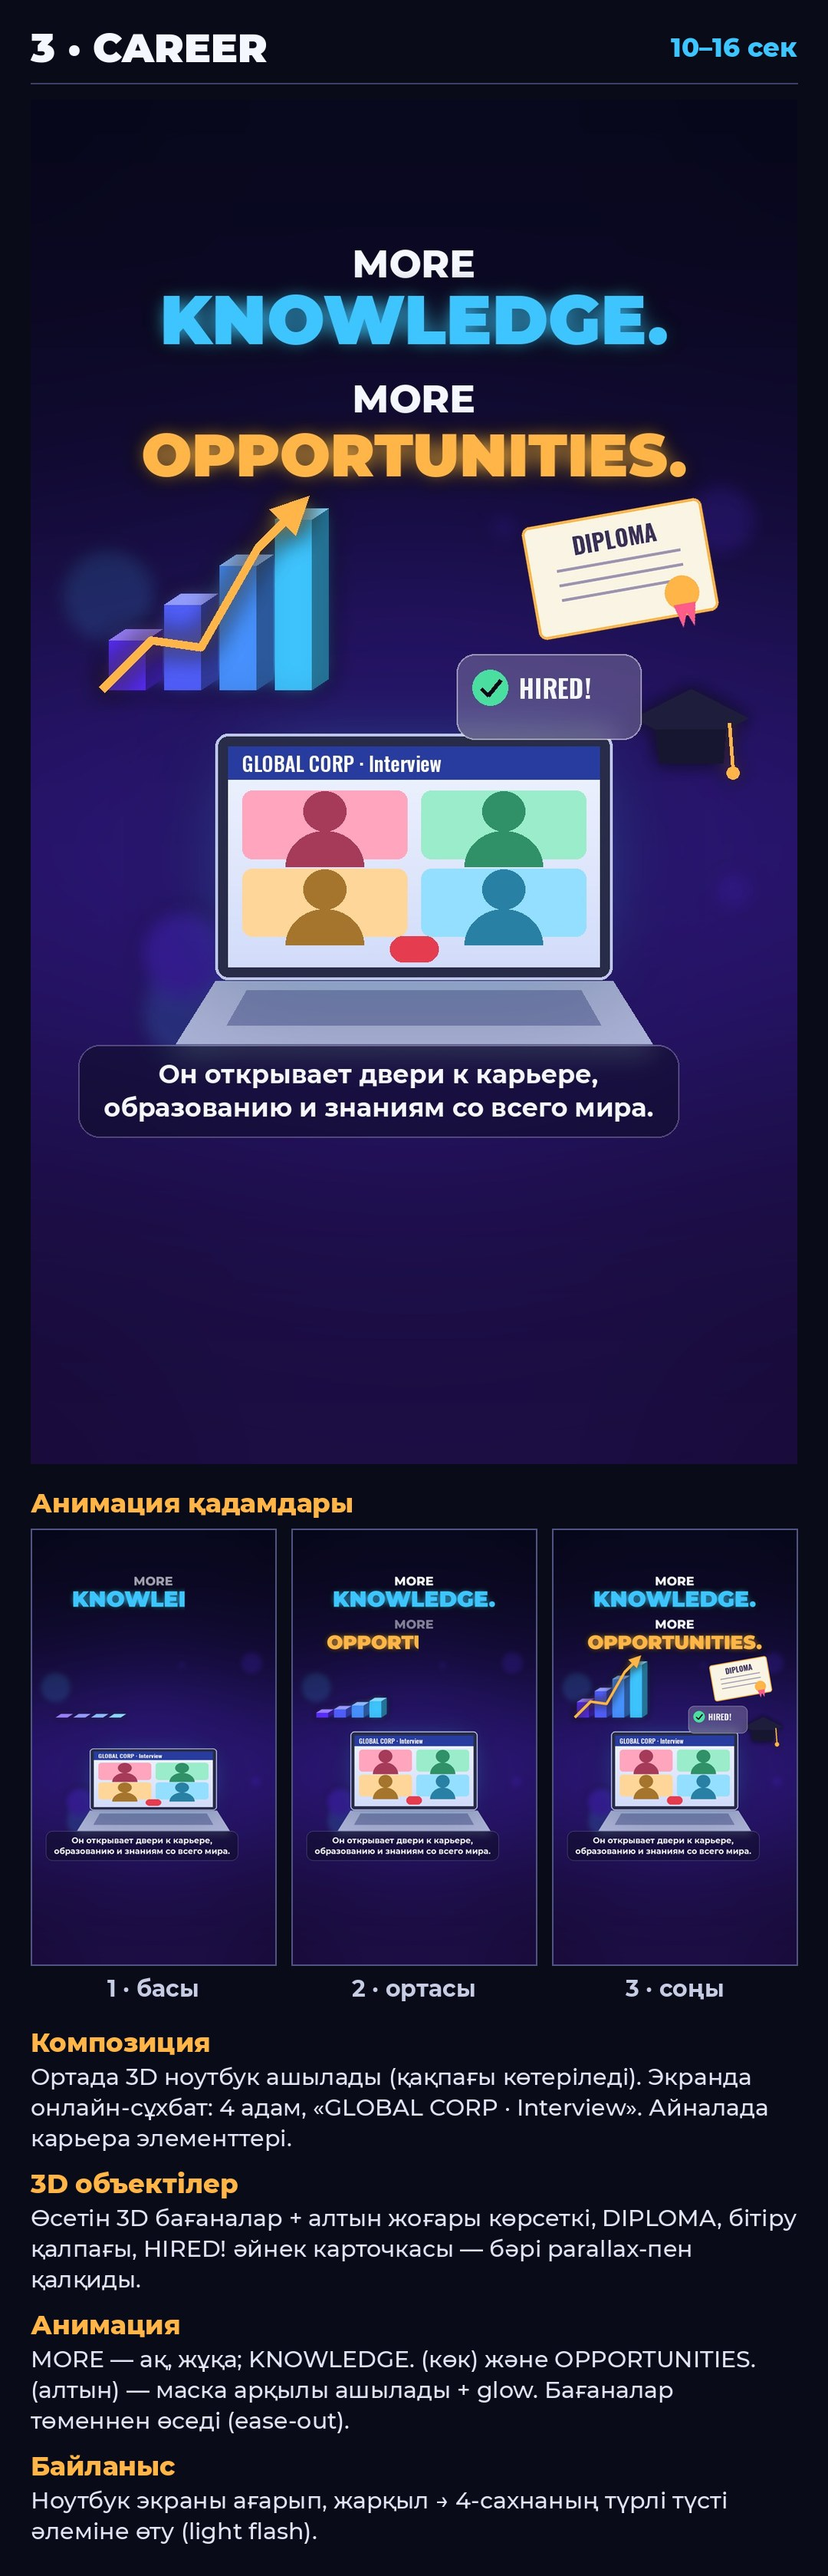
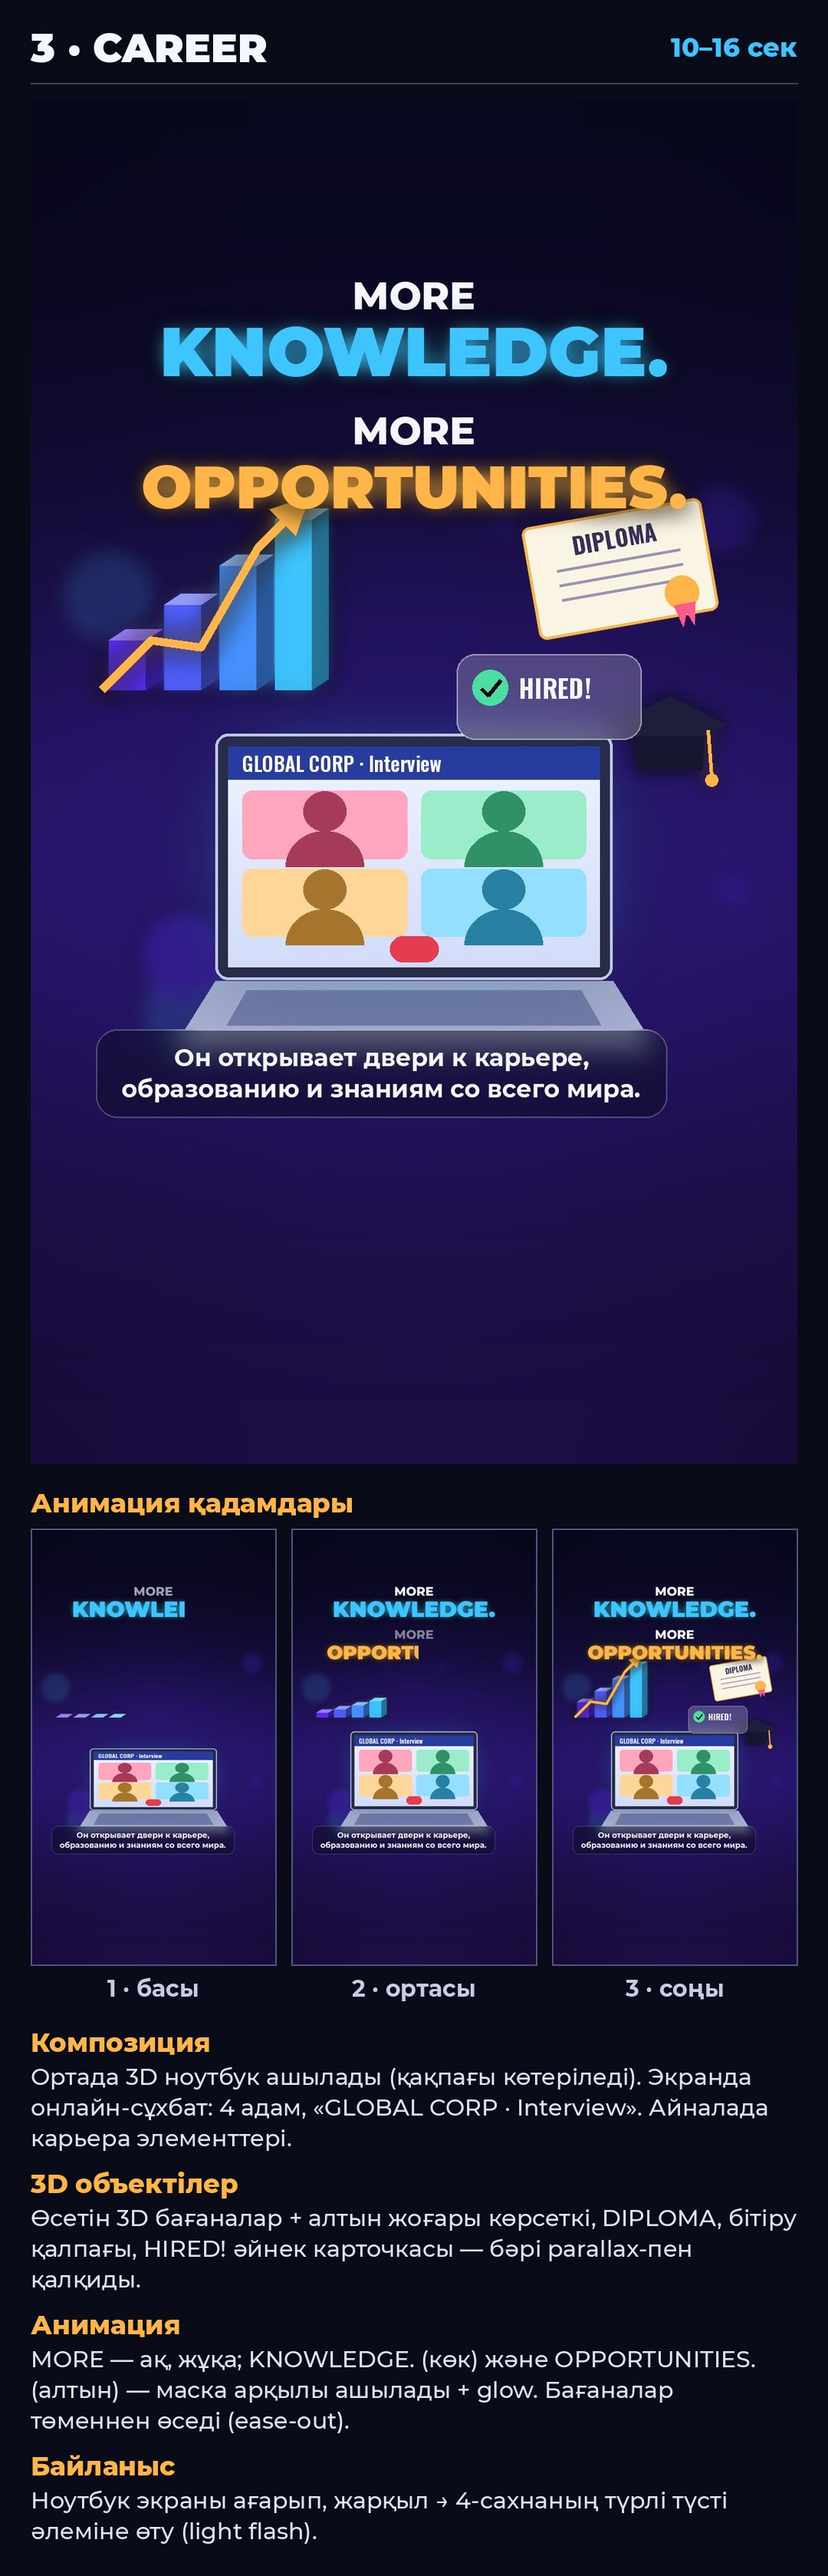
English Reels: Reels қауіпсіз аймақ рамкасы, мәтіндер рамка ішіне жылжытылды
Claude-Session: https://claude.ai/code/session_017A9pfqXkuPghavTmFoaTda

diff --git a/менің-талғамым.md b/менің-талғамым.md
@@ -5,4 +5,4 @@ Claude бұл файлды әр монтаждан бұрын оқиды. Бір
 - Тіл әрқашан қазақша, басқаша айтпасам.
 - Обложка әрқашан керек, заголовогы қазақша.
 - Рендерден кейін қазақша caption + 5–8 хэштег жаз.
-- Жазулар мен субтитр Instagram батырмаларының (оң жақ баған, төменгі аккаунт/caption) астында қалмасын; раскадровканы Instagram рамкасымен де көрсет.
+- Жазулар мен субтитр Instagram батырмаларының (оң жақ баған, төменгі аккаунт/caption) астында қалмасын; раскадровканы Reels қауіпсіз аймағының қызғылт сары рамкасымен (iPhone интерфейсі емес) тексеріп көрсет.
